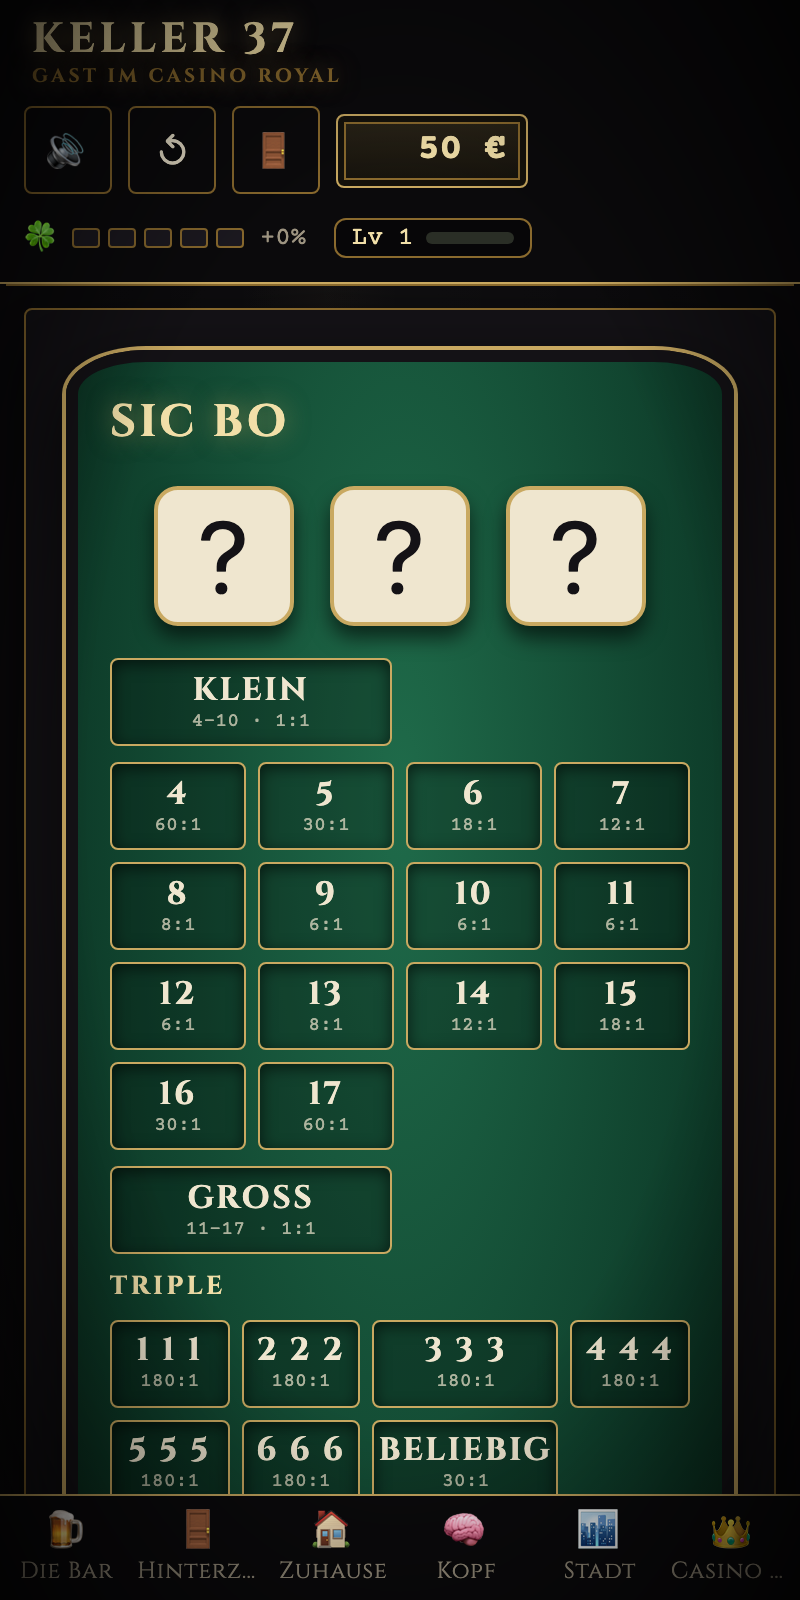
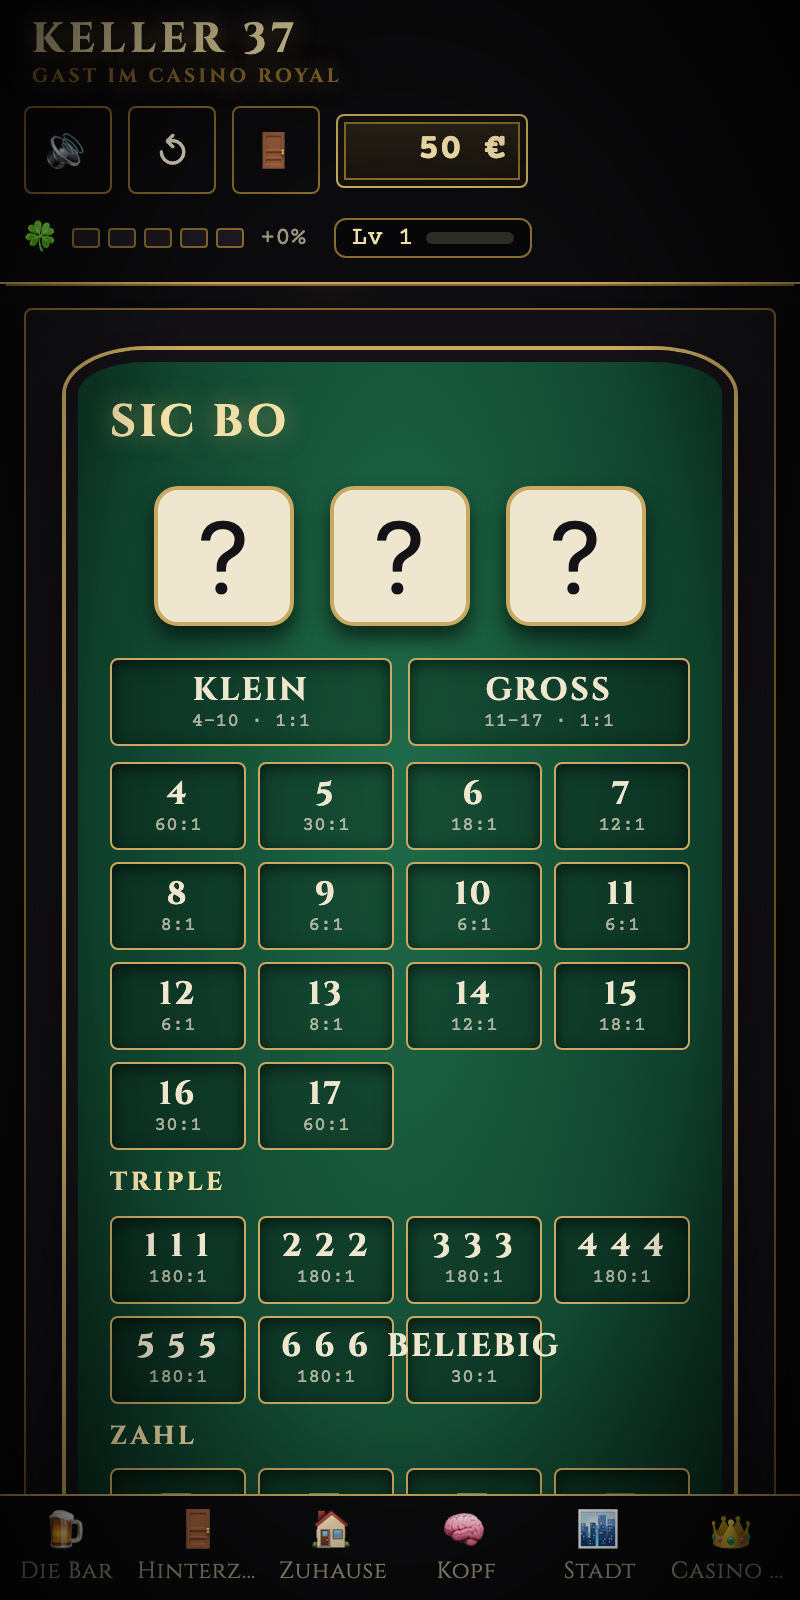
fix(sicbo): lesbare Zahl-Felder, Handy-Raster Klein/Groß nebeneinander, Becher-Neuwurf nur bei aktivem Tisch, Test-Härtung

Changed region(s): [[0.125, 0.7188, 0.875, 0.9375], [0.5, 0.4062, 0.875, 0.4688]]

diff --git a/keller37.html b/keller37.html
@@ -1016,6 +1016,7 @@ body.mode-story #newgame { display: none; }
 .sb-cell { position: relative; min-height: 44px; display: flex; flex-direction: column; align-items: center; justify-content: center; gap: 2px; padding: 4px 2px; border: 1px solid var(--gold); border-radius: 4px; background: rgba(0,0,0,.25); color: var(--ivory); font-family: inherit; cursor: pointer; box-shadow: inset 0 2px 8px rgba(0,0,0,.6); transition: transform .1s; }
 .sb-cell:hover { transform: translateY(-1px); }
 .sb-cell b { font-family: var(--font-display); font-weight: 700; letter-spacing: .08em; font-size: 1rem; line-height: 1; }
+.sb-one b { font-family: inherit; font-size: 1.7rem; line-height: 1; }
 .sb-cell small { font-family: var(--font-mono); font-size: .62rem; color: rgba(239,230,207,.7); letter-spacing: 0; }
 .sb-side { min-height: 100%; }
 .sb-cell .chip-stack { right: 2px; top: 2px; }
@@ -1025,9 +1026,9 @@ body.mode-story #newgame { display: none; }
 .sb-cell .chip-stack.won { background: var(--gold-2); color: #141216; }
 @media (max-width: 760px) {
   .sicbo-grid { grid-template-columns: 1fr 1fr; }
-  .sb-sums { grid-column: 1 / -1; grid-template-columns: repeat(4, 1fr); }
+  .sb-sums { order: 1; grid-column: 1 / -1; grid-template-columns: repeat(4, minmax(0, 1fr)); }
   .sb-side { min-height: 44px; }
-  .sicbo-row { grid-template-columns: repeat(4, 1fr); }
+  .sicbo-row { grid-template-columns: repeat(4, minmax(0, 1fr)); }
   .sb-label { grid-column: 1 / -1; padding: 0; }
 }
 .door[hidden] { display: none; } /* .door setzt keine display-Eigenschaft, aber sicher ist sicher – die Hinterzimmer-Tür ist außerhalb von Story 3 versteckt */
@@ -5567,6 +5568,7 @@ const SicBo = {
   fieldName(id, dice) {
     if (id === 'small') return 'Klein';
     if (id === 'big') return 'Groß';
+    /* tripleAny vor startsWith('triple') prüfen – sonst würde es als Triple „Any“ verrechnet */
     if (id === 'tripleAny') return `Beliebiger Triple zahlt ${SicBoRules.PAY.tripleAny}:1`;
     if (id.startsWith('triple')) return `Triple ${id.slice(6)} zahlt ${SicBoRules.PAY.triple}:1`;
     if (id.startsWith('sum')) return `Summe ${id.slice(3)} zahlt ${SicBoRules.PAY.sum[+id.slice(3)]}:1`;
@@ -5574,15 +5576,15 @@ const SicBo = {
     return `Zahl ${n} ×${k} zahlt ${k}:1`;
   },
   /* Die 29 Zellen aus SicBoRules.FIELDS bauen (Klein/Groß stehen schon im Template) */
-  cell(id, label, quote) {
-    return h('button', { class: 'sb-cell', 'data-bet': id }, h('b', {}, label), h('small', {}, quote), h('span', { class: 'chip-stack hidden' }, '0'));
+  cell(id, label, quote, cls = '') {
+    return h('button', { class: 'sb-cell' + (cls ? ' ' + cls : ''), 'data-bet': id }, h('b', {}, label), h('small', {}, quote), h('span', { class: 'chip-stack hidden' }, '0'));
   },
   buildTable(root) {
     const sums = qs('#sbSums', root), triples = qs('#sbTriples', root), ones = qs('#sbOnes', root);
     for (let s = 4; s <= 17; s++) sums.append(this.cell(`sum${s}`, String(s), `${SicBoRules.PAY.sum[s]}:1`));
     for (let n = 1; n <= 6; n++) triples.append(this.cell(`triple${n}`, `${n} ${n} ${n}`, `${SicBoRules.PAY.triple}:1`));
     triples.append(this.cell('tripleAny', 'BELIEBIG', `${SicBoRules.PAY.tripleAny}:1`));
-    for (let n = 1; n <= 6; n++) ones.append(this.cell(`one${n}`, this.FACES[n], '1:1 · 2:1 · 3:1'));
+    for (let n = 1; n <= 6; n++) ones.append(this.cell(`one${n}`, this.FACES[n], '1:1 · 2:1 · 3:1', 'sb-one'));
   },
   newPeek() { this.peekDie = Perks.mods().sicboPeek ? SicBoRules.roll(Math.random)[0] : null; },
   renderDice(dice) { for (let i = 0; i < 3; i++) qs(`#sbDie${i + 1}`, this.root).textContent = this.FACES[dice[i] || 0]; },
@@ -5645,8 +5647,8 @@ const SicBo = {
       const r = SicBoRules.settle(bets, dice);
       this.history.push(dice.join('·'));
       this.bets = {};
-      this.newPeek();
       if (this.alive(gen)) {
+        this.newPeek();
         qsa('.die', this.root).forEach((d) => d.classList.remove('rolling'));
         this.renderDice(dice); this.showingResult = true;
         SFX.play('reelStop');
@@ -7526,6 +7528,7 @@ const SicBoRules = {
     const triple = dice[0] === dice[1] && dice[1] === dice[2];
     if (id === 'small') return !triple && sum <= 10 ? P.small : 0;
     if (id === 'big') return !triple && sum >= 11 ? P.big : 0;
+    /* tripleAny vor startsWith('triple') prüfen – sonst würde es als Triple „Any“ verrechnet */
     if (id === 'tripleAny') return triple ? P.tripleAny : 0;
     if (id.startsWith('triple')) return triple && dice[0] === +id.slice(6) ? P.triple : 0;
     if (id.startsWith('sum')) return sum === +id.slice(3) ? P.sum[sum] : 0;
@@ -14373,10 +14376,11 @@ if (typeof document !== 'undefined') T.test('Erfolg dreiGleiche: Triple-Feld gew
   } finally { State.meta.achievements = keep; State.saveMeta = saveMeta; }
 });
 if (typeof document !== 'undefined') T.test('SicBo: Chips auf Klein + Summe 9, fester Wurf 2·3·4 zahlt 1:1 und 6:1; Leeren nimmt zurück', async () => {
-  const keep = { s: State.s, mode: State.mode, save: State.save, saveMeta: State.saveMeta, cur: UI.current };
+  const keep = { s: State.s, mode: State.mode, save: State.save, saveMeta: State.saveMeta, cur: UI.current, insider: State.meta.insider.slice() };
   State.save = () => {}; State.saveMeta = () => {};
   try {
     State.mode = 'free'; State.s = State.fresh(); State.s.balance = 1000;
+    State.meta.insider = [];
     await UI.show('sicbo');
     const root = qs('#stage');
     T.eq(qsa('.sb-cell[data-bet]', root).length, 29, '29 Zellen');
@@ -14399,6 +14403,7 @@ if (typeof document !== 'undefined') T.test('SicBo: Chips auf Klein + Summe 9, f
     const before = State.s.balance; await SicBo.roll(); T.eq(State.s.balance, before, 'Würfeln ohne Einsatz ändert nichts');
   } finally {
     State.s = keep.s; State.mode = keep.mode; State.save = keep.save; State.saveMeta = keep.saveMeta;
+    State.meta.insider = keep.insider;
     await UI.show(keep.cur ? keep.cur.id : 'hub');
   }
 });

diff --git a/tests/playtest-story.py b/tests/playtest-story.py
@@ -2103,7 +2103,7 @@ async def scenario_sicbo(cdp):
         before = await cdp.eval("State.s.balance", await_promise=False)
         await cdp.eval("SicBo.forceDice = %s; 0" % json.dumps(dice), await_promise=False)
         await cdp.click("#btnSbRoll")
-        await cdp.wait_for("!SicBo.rolling", timeout=6.0)
+        await cdp.wait_for("!SicBo.rolling || __pt.cutsceneActive()", timeout=6.0)
         # Ein Nettogewinn >= RoyalRules.GUEST_WIN (5000) loest einmalig die "Gast des Hauses"-Cutscene aus
         # (Royal.onWin, Bus 'win'), die Game.settle() bis zum Durchklicken blockiert (SicBo.rolling bleibt
         # dann true) -- durchklicken, falls sie gerade offen ist, dann erneut auf das Rollenende warten.
